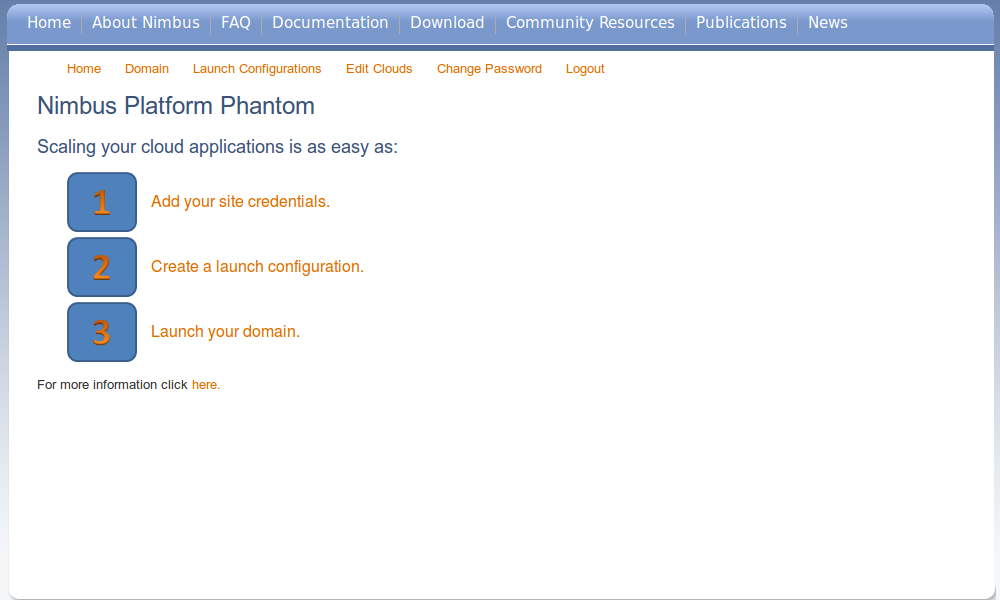
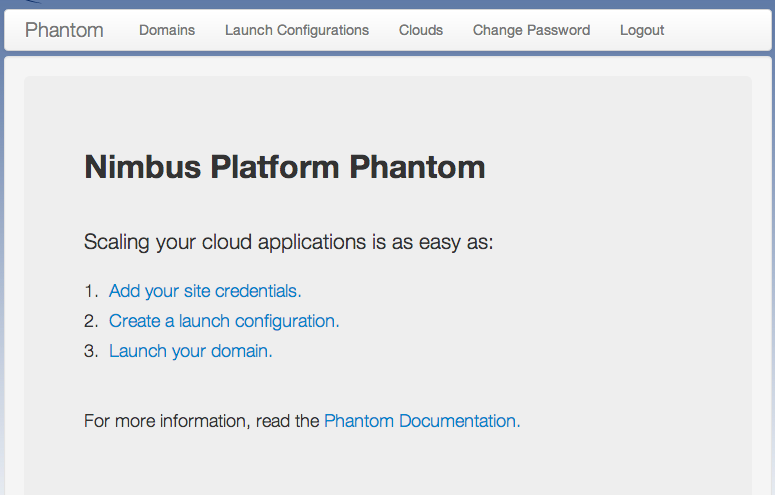
Update phantom docs with new images and better steps

diff --git a/phantom/webapp.rst b/phantom/webapp.rst
@@ -1,12 +1,12 @@
 ===============
-Web Application
+Phantom Web App
 ===============
 
 The best way to get familiar with the Nimbus Phantom service is to
-check out the web application 
+check out the Phantom Web App
 `here <https://svc.uc.futuregrid.org:8440/phantom>`_.
 
-In order to use the web application you will need a `FutureGrid account 
+In order to use the Phantom Web App you will need a `FutureGrid account 
 <https://portal.futuregrid.org/user/register>`_ and a Phantom account.
 To get a Phantom account, request to join the `Nimbus Auto Scale
 <https://portal.futuregrid.org/projects/224>`_ project.
@@ -16,118 +16,148 @@ accepted.
 Login
 =====
 
-Once you have the needed accounts you can log into the web application.
-You will first be presented with a login screen similar to the one
-below:
+Once you have the needed accounts you can log in.
+You will first be presented with a login screen:
 
 .. image:: images/phantom_login.png
    :width: 502
-   :height: 124
 
 If you have forgotten your account information you can click on the 
 `Forgot Password <https://svc.uc.futuregrid.org:8440/accounts/reset_password/>`_
-link.  After successfully logging in you will be presented with the landing
-page:
+link.  After logging in you will see the home page:
 
 .. image:: images/phantom_home.png
    :width: 500
-   :height: 313
 
-That screen explains the basic steps.  The first thing you need to do is
-go to the 
-`Edit Clouds <https://svc.uc.futuregrid.org:8440/phantom/sites>`_
-page and add your site credentials.  The page should look like this:
+This page should guide you through the steps to start launching set of 
+virtual machines, which are called Domains in Phantom.
+
+Setting up your Cloud Credentials
+=============================
+
+Go to the `Clouds <https://svc.uc.futuregrid.org:8440/phantom/sites>`_
+page and add your site credentials:
 
 .. image:: images/phantom_sites.png
    :width: 500
-   :height: 313
 
 All FutureGrid accounts should come pre-loaded with your credentials.  If you
-wish to use EC2 you can add your credentials by selecting the EC2 cloud,
-adding your access and secret key, and then click save.  Once the system
-has your keys you can select the keyname that you wish to use.  Select it
-and click save a second time.
+wish to use EC2 in addition to FutureGrid clouds,
+you can add your credentials:
 
-Create a launch configuration
+Adding EC2 Credentials
+----------------------
+
+1. Select the EC2 cloud
+2. Add your access key
+3. Add your secret key
+4. Click Save
+
+Phantom will now fetch your ssh keys from EC2. When this is done:
+
+5. Choose an ssh keyname for your VMs
+6. Click Save again
+
+Creating a Launch Configuration
 =============================
 
-Once you have all of your site information configured it is time to create
-a launch configuration.  Got to the 
+Now that your credentials are configured, you can create a launch configuration.
+A launch configuration is a list of which VM images you would like to start on
+which clouds. You will provide an ordering for the list of clouds to start VMs
+on.
+
+Go to the 
 `Launch Configuration <https://svc.uc.futuregrid.org:8440/phantom/launchconfig>`_
-page and you will see a screen like the following:
+page:
 
 .. image:: images/phantom_lc.png
    :width: 500
-   :height: 313
 
-This is where you create a launch plan.  The first thing to do is to select
-a name for the launch configuration, for this example we will use 
-*testoverflow*.   Now the ordered list of clouds must be created.  On the left
-panel *Cloud Options* select a cloud from the list.  Then give it a max
-number of VMs that you will allow on that cloud (-1 means infinity).  
-Select an instance type (if you are unsure choose m1.small).  Finally 
-select the image you wish to launch.  In the combo box labeled * Personal Image*
-you will find a list of all of the images you have created and uploaded.
-If you have not yet done this you can specify the name of a public image.
-If you are using a FutureGrid cloud enter *hello-cloud*. 
+First, name your launch configuration. Type the name in the top field. This
+example will be named 
+*testoverflow*.
 
-Click *Add* to add the cloud configuration to the list.  Now you can configure
-the next cloud by repeating the above process with another cloud in the 
-Cloud Options panel. 
+Now we will create a list of clouds in the order we would like to have Phantom
+use them. This way you can prioritize your preferred clouds, while still using
+other clouds when your preferred ones are not available.
 
-Once you have added all of the clouds you can use the *Up* and *Down* buttons
-to order them.  When you are happy with the order click the *Save* button
-at the top.  Once successfully saved you can launch a domain using this launch
+Adding a Cloud
+--------------
+
+1. Select a cloud from the list of clouds under *Cloud Options*
+2. Specify the maximum number of VMs you would like on this cloud (-1 means infinity)
+3. Select an instance type (m1.small is a good choice if you have no preference)
+4. Select the image you wish to launch. You can either pick a *Personal Image* from
+   the list, or type in the name of a *Public Image* supplied by someone else.
+   If you are using a FutureGrid cloud, you can use *hello-cloud*, for example.
+5. If you like, you can provide User Data that will be provided on the VM via the
+   EC2 or Nimbus metadata server.
+6. Click *Add* to add the cloud configuration to the list of clouds on the right.
+
+You can now add aditional clouds if you like by repeating the above steps.
+
+Once you have added the clouds you would like to use, you can use the *Up* and
+*Down* buttons to change the launch priority of these clouds. Phantom will try
+to start as many VMs as it can (up to the maximum you specified) on the first
+cloud in the list before starting VMs on the second.
+
+When you are happy with the order you have selected, click the *Save* button
+at the top.  Once saved,  you can now launch a domain using this launch
 configuration.
 
-Launch a domain
-===============
+Launching a domain
+==================
 
-At this point you can use the application to create new domains, monitor
-existing domains, resize existing domains, and terminate existing domains.
+Now that you have set up your credentials and created a launch configuration, 
+you can launch and manage domains that will launch and monitor VMs for you.
 
-To launch a new domain go to the 
+To launch a new domain, go to the 
 `domains <https://svc.uc.futuregrid.org:8440/phantom/domain>`_
-page.  You should see something like this:
+page:
 
-.. image:: images/phantom_lc.png
+.. image:: images/phantom_domain.png
    :width: 500
-   :height: 313
 
-The first thing you should do is select a name for
-it and enter it into the 'Domain Name' text box.  After that set the 
-number of VMs you wish to run in this domain by typing that number in the 
-"Size" box.  Finally select the launch configuration you wish to use.
-In the screen above we selected *testoverflow*.
+Creating a simple domain
+------------------------
 
-The final step is to select click 'Start'.  Once you 
-start it you will notice that your 'domain name' is now listed in the 
-lowest box on the left panel.  This means that the system is aware of your
-domain and running it.  
+To create a domain:
 
-Click on your domain name and you should see
-the domain details panel populated with information about your domain.
-Each
-entry represents the state of one of your requested VMs.  When a VM
-instance is listed as 'RUNNING' it is ready for use (you can ssh into it as
-root).
-Click the 'Update' Button until you see your VMs are all running.
+1. Click *Add Domain*
+2. Choose a name for the domain in the popup window
+3. Pick the Launch Configuration you created earlier
+4. Leave Sensors to Monitor blank for now
+5. Make sure *Scaling Policy* is set to "Multi Cloud"
+6. Type in the number of VMs you would like Phantom to start
+7. Click *Start*
 
-Resize a domain
+Phantom is now starting your Domain, and in turn, starting your VMs. You should
+see the list of VMs that Phantom has started on the right under Details. Click
+the *Refresh* button to see updated information.
+
+When you see that your VM is RUNNING, it is now ready to use.
+
+Update a domain
 ===============
 
-Select your domain from the list in the lowest box in the bottom left pane.
-When you select it notice that all the options for running a domain are
-set to represent your domain, including the 'Size' field.  If you wish, you
-can change the size.  Simply enter a new value and click the 'Resize'
-button.  You should now see the status bar working and changes on the right
-pane begin to take effect.
+Once you have started a Domain, you may wish to adjust the settings you picked 
+earlier. For example, you may wish to increase or decrease the number of VMs
+that are running as a part of your domain. To do this:
 
-Delete a domain
+1. Select your domain from the list of domains on the left
+2. Change the number of VMs in the domain
+3. Click Update
+
+You should now see the status bar working and the details view should show the 
+updated number of VMs. 
+
+Terminate a domain
 ===============
 
-When you wish to terminate a domain simply select it and click the terminate
-button.  This will begin terminating all of the VMs under the domain
-and stopping all other processes associated with the domain.  It may
-take a few moments to complete and you may need to click update to see
-the results of the operation.
+When you wish to terminate a domain:
+
+1. Select your domain from the list of domains on the left
+2. Click Terminate
+
+You should now see the status bar working, and soon, your domain, as well as 
+all of the VMs started by it, will be terminated.
